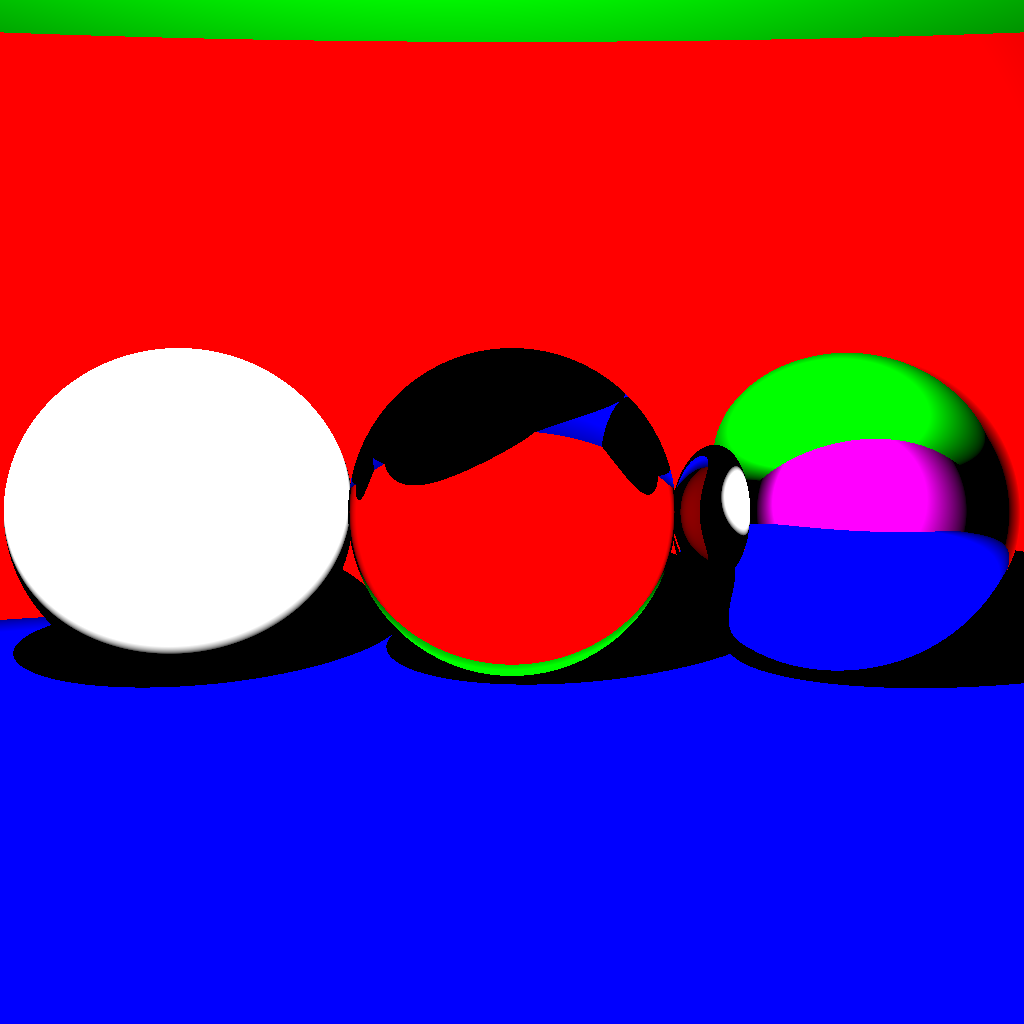
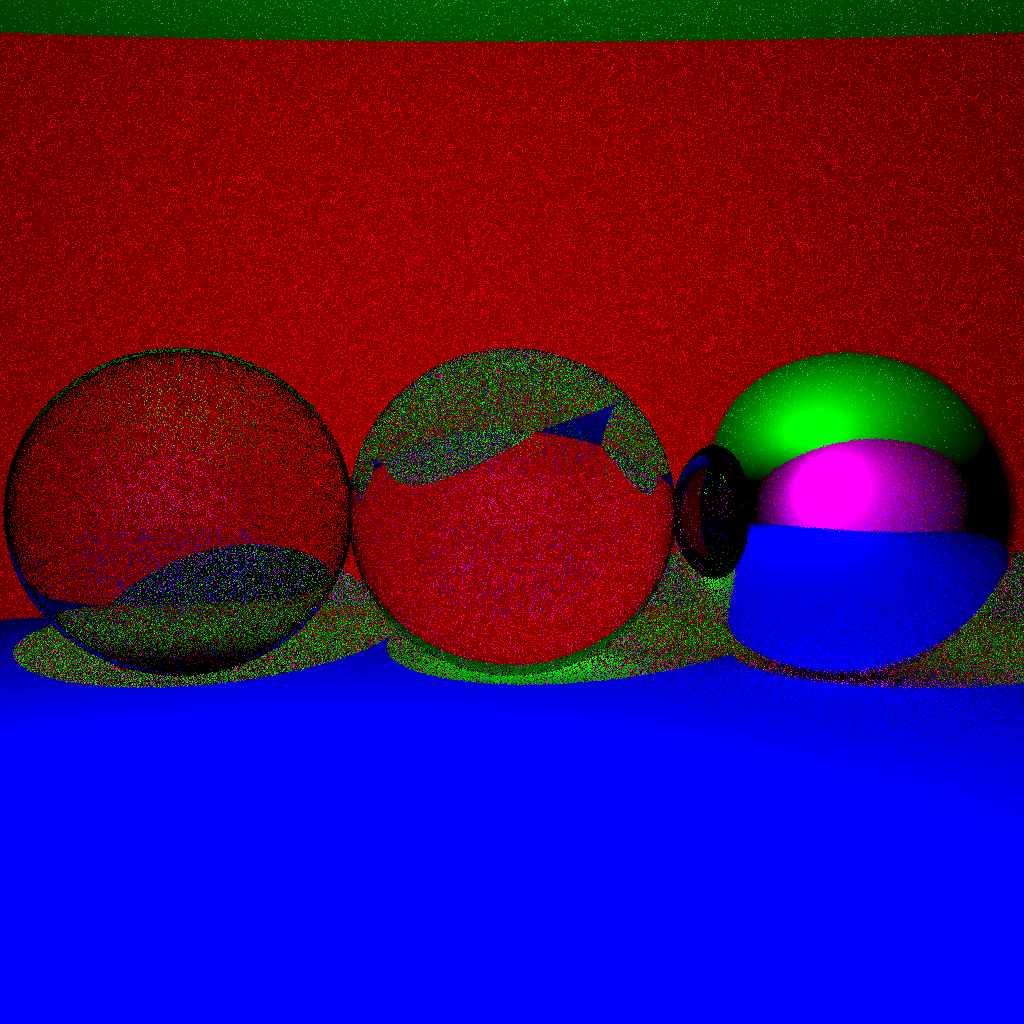
fix fresnel law implementation

diff --git a/main.cpp b/main.cpp
@@ -200,19 +200,22 @@ class Scene {
                     double Nu = dot(ray.dir, localN);
                     double n1 = (Nu > 0) ? I.refractive_index : 1.0;
                     double n2 = (Nu > 0) ? 1. : I.refractive_index;
+                    localN = (Nu > 0) ? -1.*localN : localN;
 
+                    localP = I.P - (eps * localN);
+                    Nu = dot(ray.dir, localN);
                     if (1 - pow(n1/n2, 2) * (1 - pow(Nu, 2)) > 0.) {
                         /* refraction apply Fresnel's law */
+                        Vector wt_T = (n1/n2) * (ray.dir - dot(ray.dir, localN) * localN);
+                        Vector wt_N = -1. * localN * sqrt(1. - pow(n1/n2, 2) * (1 - pow(dot(ray.dir, localN), 2)));
+                        Vector w_t = wt_T + wt_N;
                         double k0 = pow((n1-n2)/(n1+n2), 2);
-                        double R = k0 + (1-k0) * pow(1 - abs(Nu), 5);
-                        double T = 1. - R;
+                        double R = k0 + (1-k0) * pow(1 - abs(dot(localN, ray.dir)), 5);
                         if (uniform(engine) < R) {
-                            Ray reflected_ray = Ray(localP, ray.dir - (2*dot(ray.dir, localN) * localN));
+                            Ray reflected_ray = Ray(localP, ray.dir - (2*dot(ray.dir, I.N) * I.N));
                             return getColor(reflected_ray, depth - 1);
                         } else {
-                            Vector T = (n1/n2) * (ray.dir - Nu * localN);
-                            Vector N = -1. * localN * sqrt(1. - T.norm2());
-                            Ray refracted_ray = Ray(localP, T + N);
+                            Ray refracted_ray = Ray(localP, w_t);
                             return getColor(refracted_ray, depth - 1);
                         }
                     } else {
